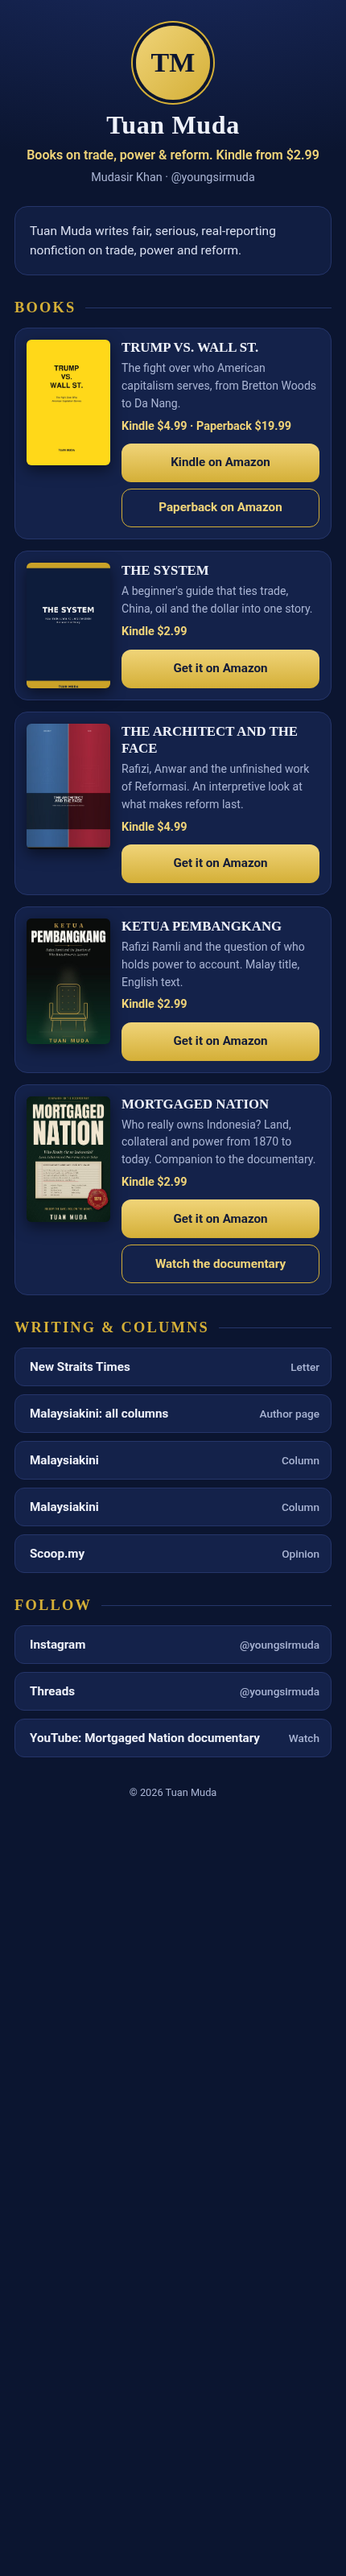
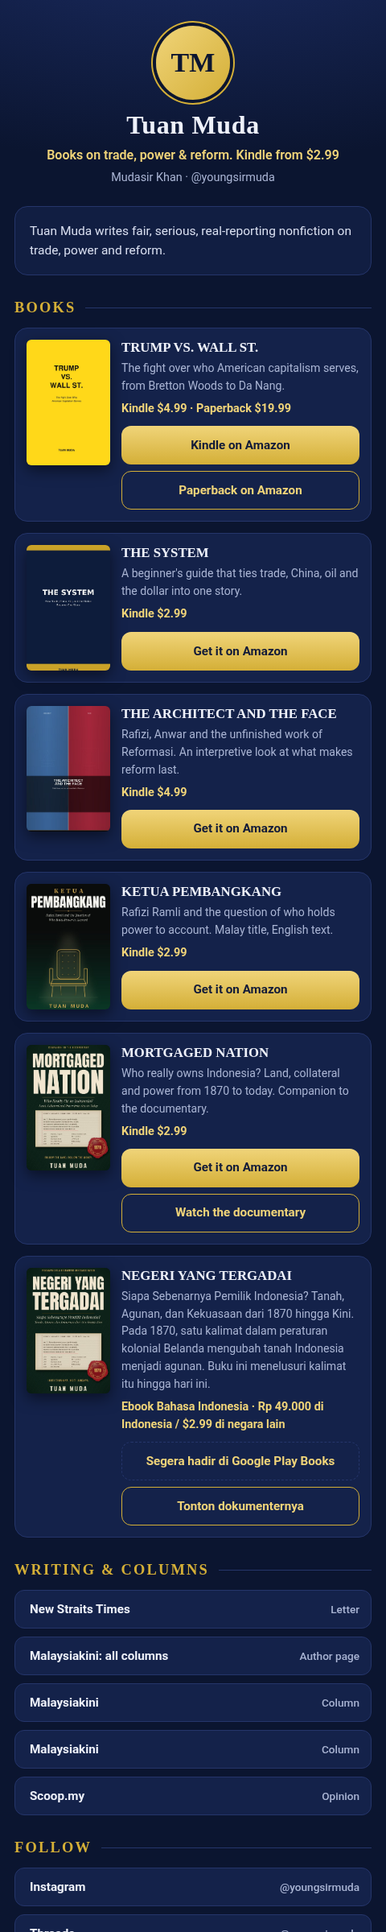
Add NEGERI YANG TERGADAI (coming soon on Google Play Books)

diff --git a/index.html b/index.html
@@ -44,6 +44,7 @@ h2::after{content:"";flex:1;height:1px;background:var(--line)}
 .btn.gold{background:linear-gradient(180deg,var(--gold2),var(--gold));color:#111a38}
 .btn.ghost{border:1.5px solid var(--gold);color:var(--gold2);background:transparent}
 .btn:focus-visible{outline:3px solid #fff;outline-offset:2px}
+.soon{display:flex;align-items:center;justify-content:center;min-height:48px;padding:10px 14px;border-radius:12px;border:1.5px dashed var(--line);color:var(--gold2);font-weight:700;font-size:.95rem;text-align:center}
 .note{font-size:.8rem;color:var(--mute);margin-top:8px}
 .links{display:grid;gap:10px}
 .links .btn{justify-content:flex-start;gap:12px;background:var(--card);border:1px solid var(--line);color:var(--text);padding-left:18px}
@@ -119,6 +120,20 @@ footer{text-align:center;color:var(--mute);font-size:.8rem;margin-top:34px}
     <div class="btns">
       <a class="btn gold" href="https://www.amazon.com/dp/B0HNF1RVQ4" rel="noopener">Get it on Amazon</a>
       <a class="btn ghost" href="https://youtu.be/VhpT7OQuayk" rel="noopener">Watch the documentary</a>
+    </div>
+  </div>
+</article>
+
+<!-- TODO-play-link: replace the .soon label below with a real Google Play Books button when NEGERI YANG TERGADAI goes live (see TODO-play-link.md) -->
+<article class="book" lang="id">
+  <img src="img/negeri-yang-tergadai.jpg" alt="Sampul NEGERI YANG TERGADAI" width="104" height="156" loading="lazy">
+  <div class="info">
+    <h3>NEGERI YANG TERGADAI</h3>
+    <p class="sub">Siapa Sebenarnya Pemilik Indonesia? Tanah, Agunan, dan Kekuasaan dari 1870 hingga Kini. Pada 1870, satu kalimat dalam peraturan kolonial Belanda mengubah tanah Indonesia menjadi agunan. Buku ini menelusuri kalimat itu hingga hari ini.</p>
+    <p class="price">Ebook Bahasa Indonesia · Rp 49.000 di Indonesia / $2.99 di negara lain</p>
+    <div class="btns">
+      <p class="soon" id="play-books-soon">Segera hadir di Google Play Books</p>
+      <a class="btn ghost" href="https://youtu.be/VhpT7OQuayk" rel="noopener">Tonton dokumenternya</a>
     </div>
   </div>
 </article>

diff --git a/TODO-play-link.md b/TODO-play-link.md
@@ -1,0 +1,8 @@
+# TODO: real Google Play Books link for NEGERI YANG TERGADAI
+
+In index.html, find `<p class="soon" id="play-books-soon">Segera hadir di Google Play Books</p>` (just above the HTML comment `TODO-play-link`, in the NEGERI YANG TERGADAI card).
+When the book goes live on Google Play Books, replace that <p> with:
+
+    <a class="btn gold" href="PLAY_BOOKS_URL" rel="noopener">Dapatkan di Google Play Books</a>
+
+Then remove the TODO comment, commit and push.
